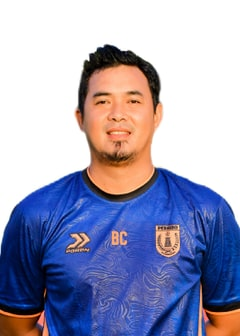
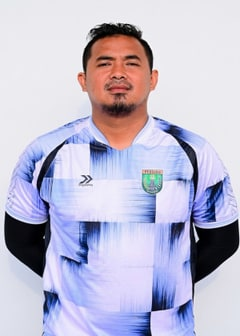
tim: pakai portrait ofisial 2026-27 dari path baru iLeague
- path official/101/29 berisi foto musim ini (jersey putih/ungu); path lama official/OF masih foto musim sebelumnya
- assets.ileague.id balas 404 untuk path baru, jadi officials.json memakai liasfiles.ileague.id:8443 dengan ekstensi .jpg
- 7 portrait diperbarui; Tisna Wijaya fotonya sama; manifest dicerminkan ulang

diff --git a/CHANGELOG.md b/CHANGELOG.md
@@ -54,6 +54,7 @@ dan proyek ini mengikuti [Semantic Versioning](https://semver.org/lang/id/).
 - Posisi dan musim di tabel menempel tanpa spasi di mobile ("P. GAWANG2025-26") karena keduanya sebaris flex; sekarang bertumpuk.
 
 ### Changed
+- Portrait ofisial diganti versi terbaru iLeague. Halaman klub menunjuk path `official/101/29/`, yang berisi foto musim 2026-27 (jersey putih/ungu); path lama `official/OF...` masih menyimpan foto musim sebelumnya. File di `assets.ileague.id` untuk path baru balas 404, jadi `officials.json` memakai URL `liasfiles.ileague.id:8443` yang benar-benar melayani gambarnya (ekstensi `.jpg`). Delapan portrait dicerminkan ulang ke `public/img/officials/`.
 - Ofisial 2026-27 diperbarui dari iLeague: 8 orang (sebelumnya 3). Tambahan pelatih kiper, analis, dokter tim, dan fotografer; Rian Ikrawansyah tetap sekretaris, Tisna Wijaya kini berbagi posisi masseur dengan Dio Kevin Alief Utama. Semua portrait dicerminkan ke `public/img/officials/` dan tercatat di `assets-manifest.json`. `fetch-assets` menandai foto ofisial sebagai musim 2026-27 (sebelumnya hardcode 2025-26).
 - Arsip 2025-26 dilengkapi: 12 dari 12 pertandingan punya detail (sebelumnya 3), masing-masing dengan XI + cadangan + pelatih kedua tim, daftar gol/kartu, wasit lengkap (termasuk asisten 2 dan cadangan wasit), dan venue. Scraper-nya `.scratch/scrape_ileague_2025_26.py`, memakai parser 2024-25 ditambah pembaca blok hero untuk gol/kartu karena tab Linimasa 2025-26 kosong di sumber. Statistik pertandingan tidak diisi: iLeague tidak pernah menerbitkannya untuk musim ini.
 - Seluruh halaman memakai satu bahasa desain "broadcast" dari homepage: judul `font-cond` uppercase, panel kotak `bg-[#0c0b0f]` + `border-white/12`, aksen oranye, tanpa sudut membulat.
